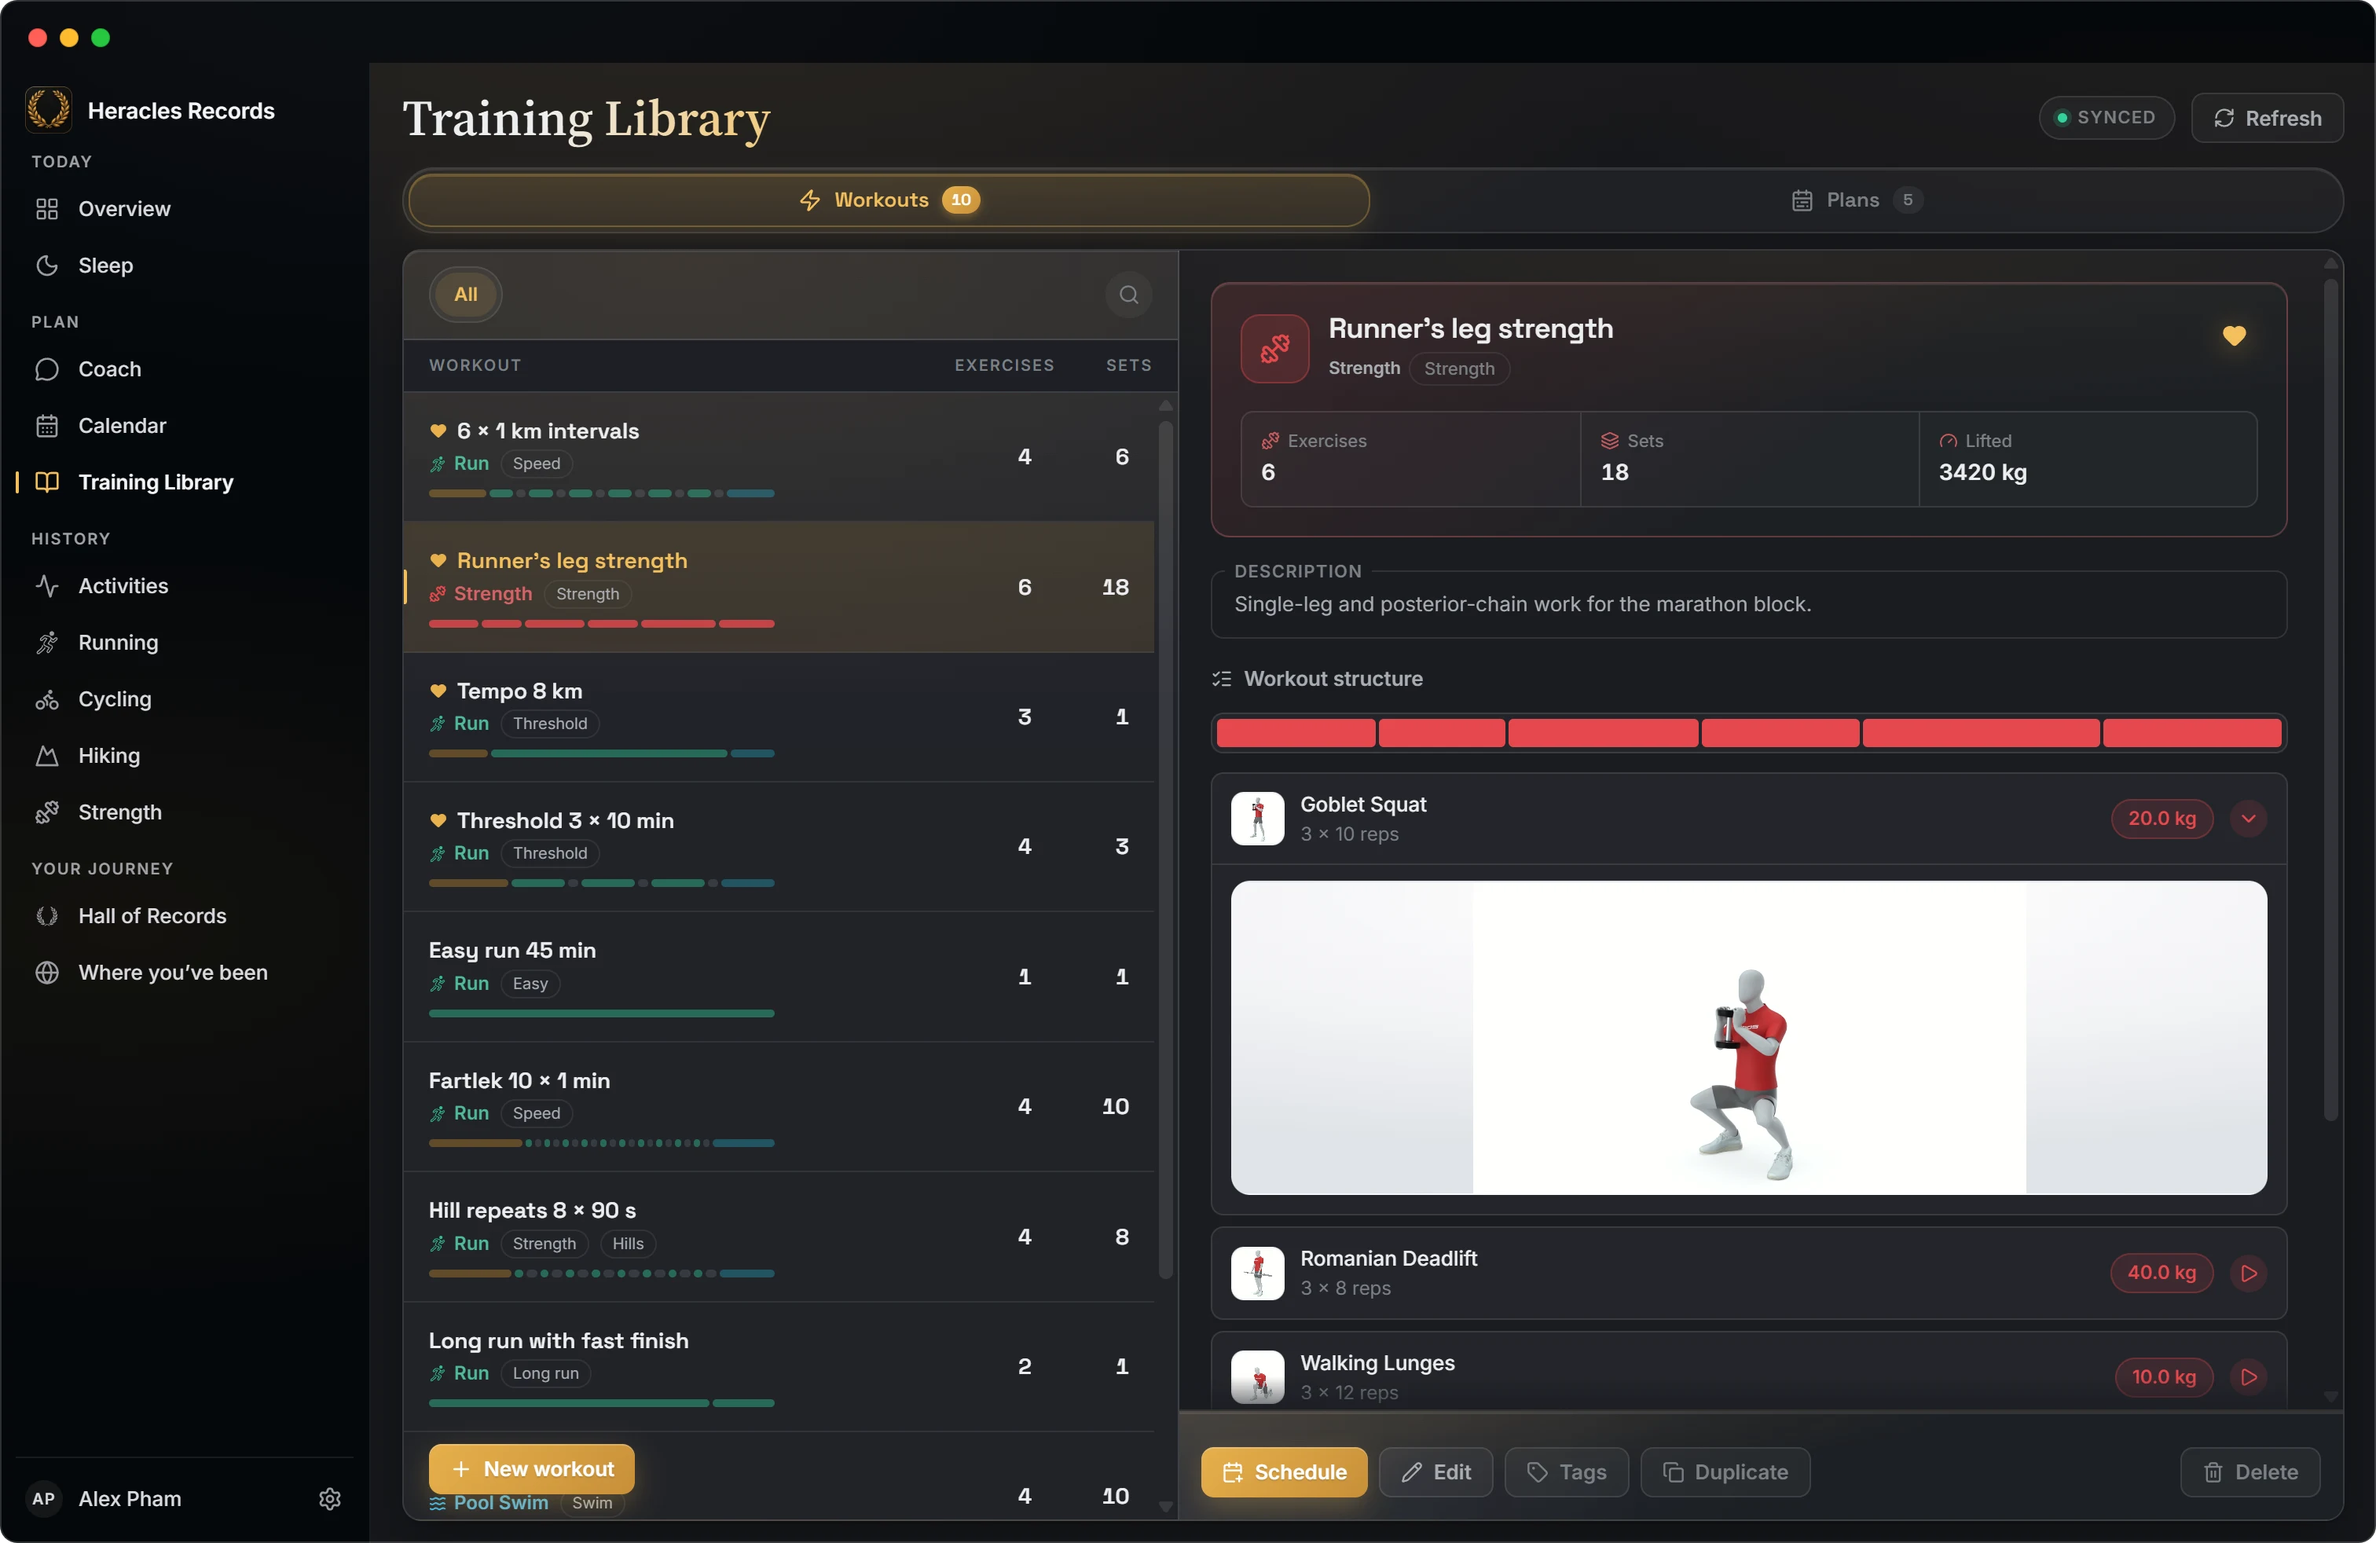
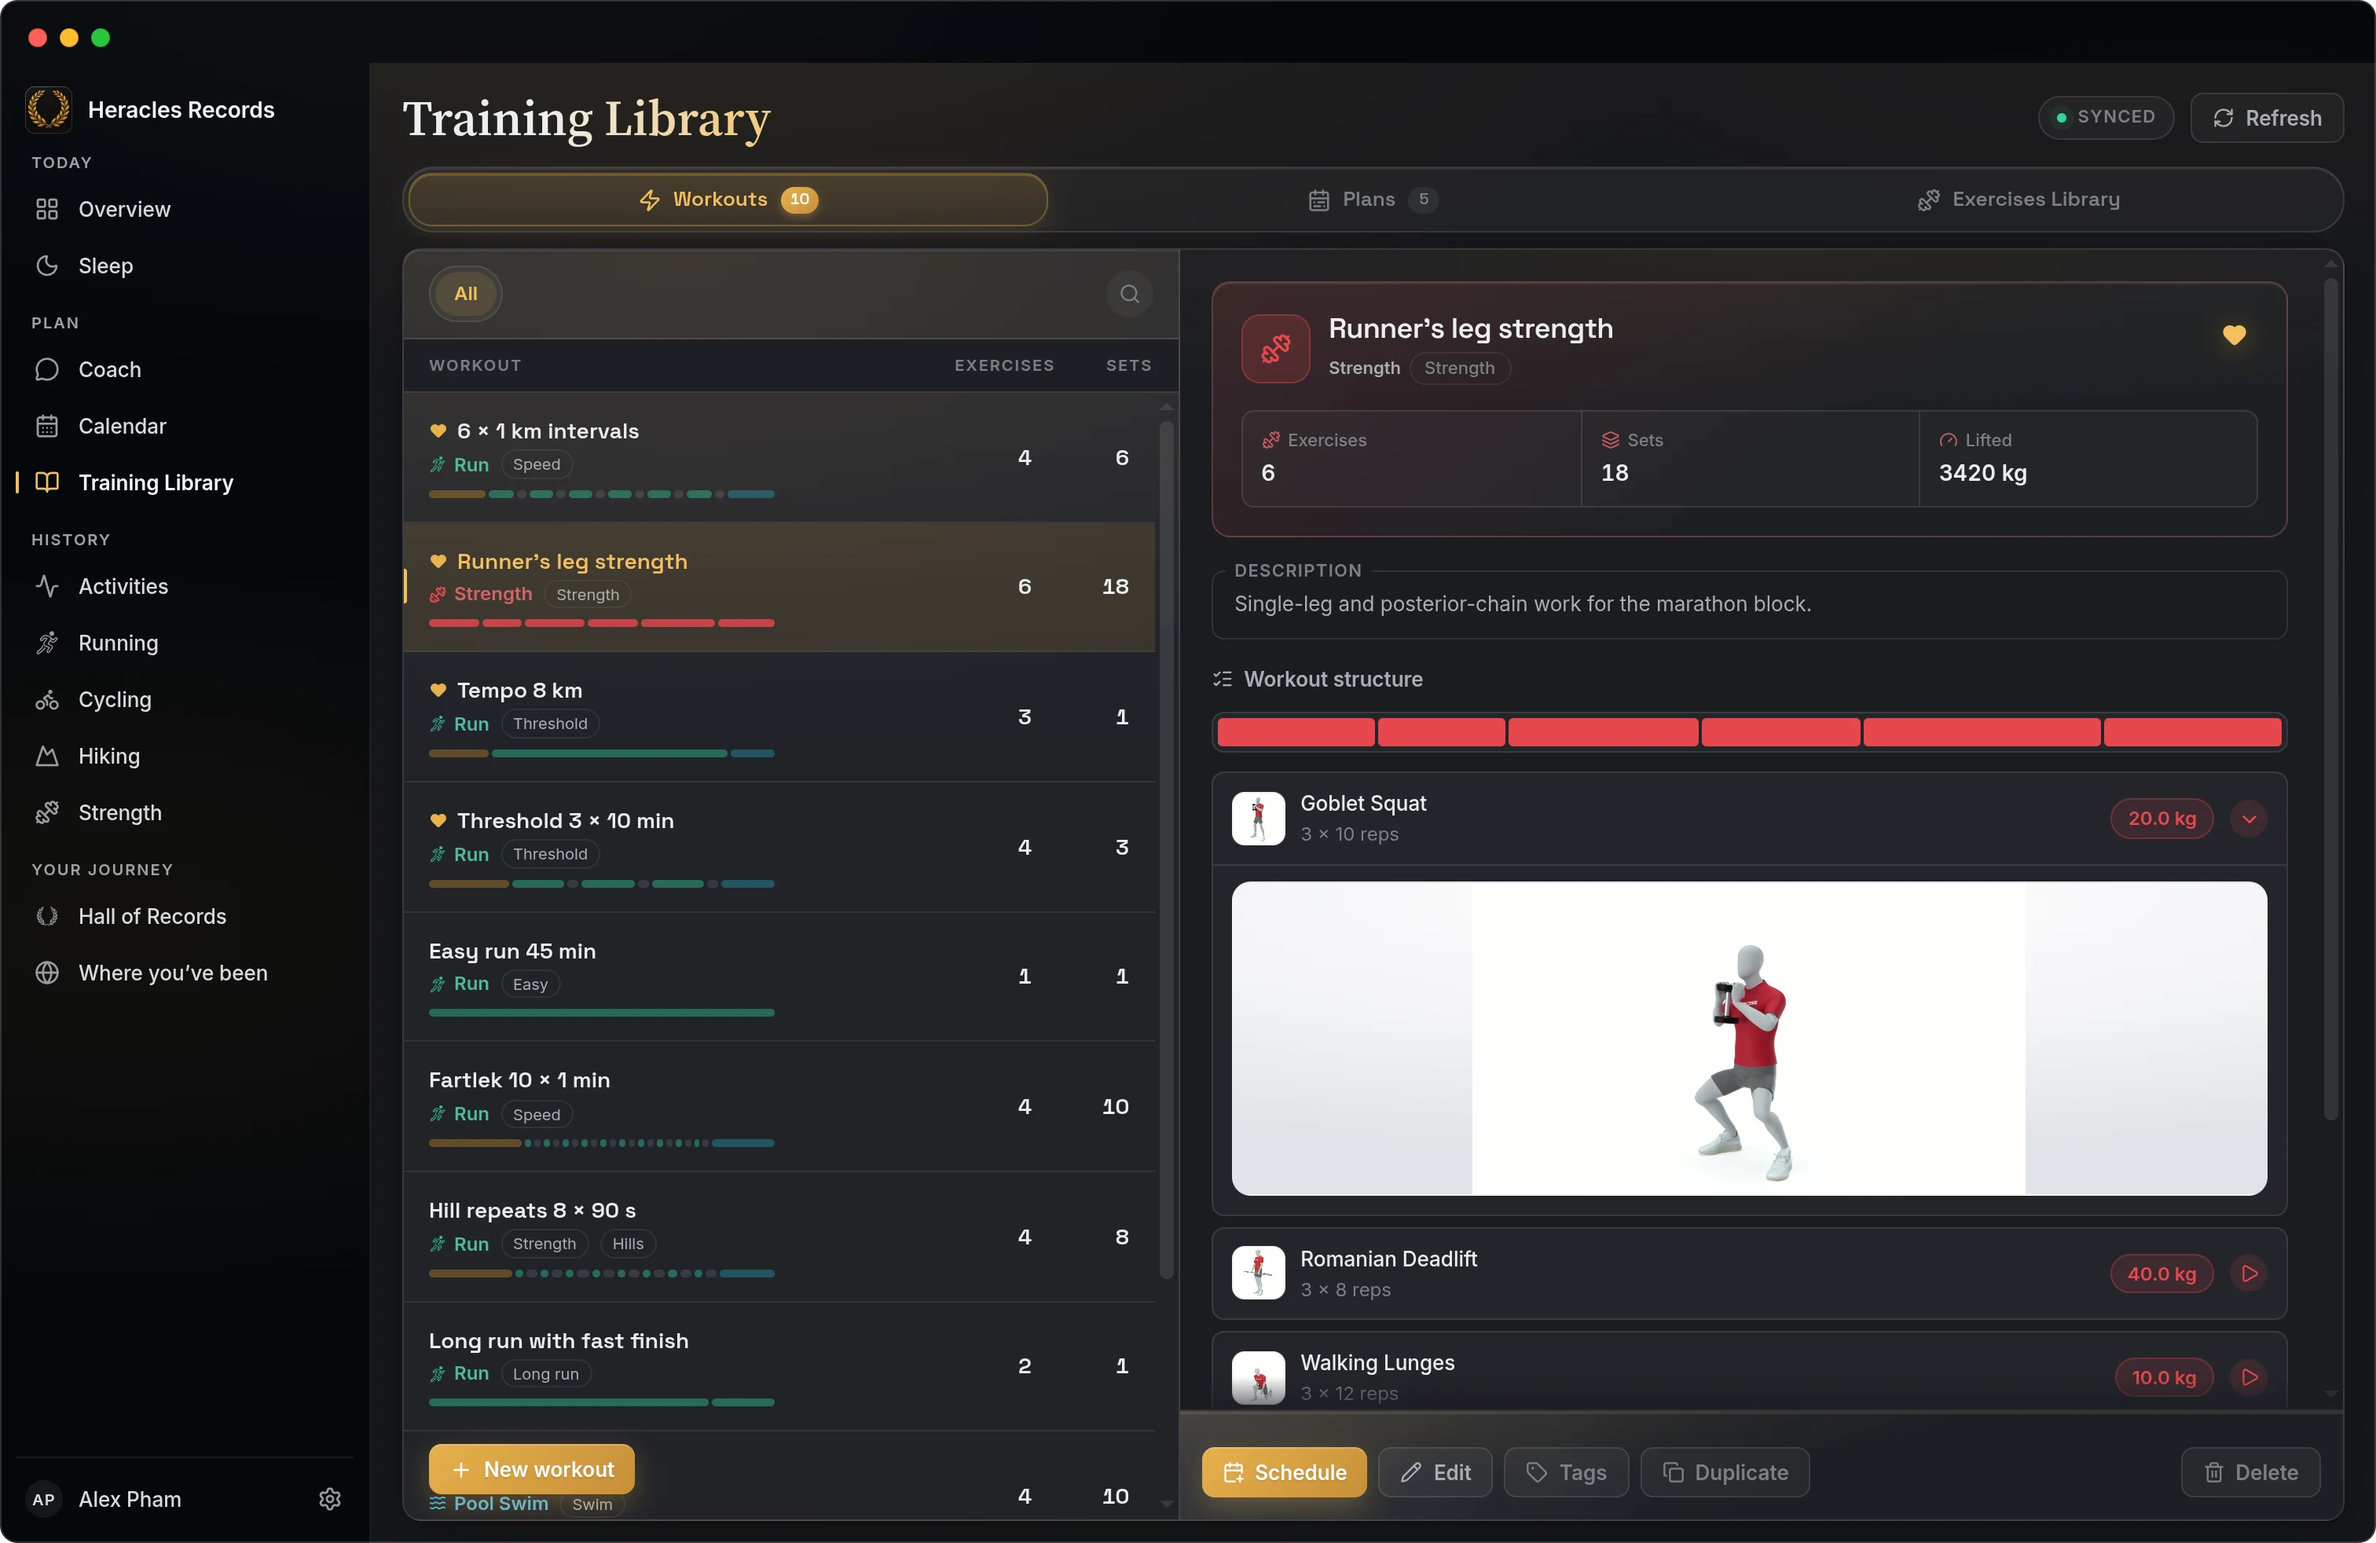
chore: release v1.2.2

diff --git a/README.md b/README.md
@@ -130,6 +130,8 @@ Nights and naps, stages, HRV and stress across the night, kept long after the ni
   </tr>
 </table>
 
+**Strength, described properly.** COROS's exercise data is often wrong: a squat filed as hamstring work, battle ropes as biceps, every twist and side plank with no obliques. That skewed my training totals and gave Coach a muddled picture to analyse. So Heracles Records describes every movement again, its muscles and equipment one by one (browse them in the Training Library's **Exercises Library**), and you may see it disagree with COROS here and there. That is on purpose. If you think the app got one wrong, please say so in [Discussions](https://github.com/quochungse/HeraclesRecords/discussions) or [Issues](https://github.com/quochungse/HeraclesRecords/issues/new).
+
 **Every route, replayed.** Open the map full size and colour the line by pace, heart rate or elevation, then watch the route draw itself the way you covered it.
 
 <img src="docs/readme/16-route.webp" alt="A hike around Hàm Lợn replayed on a satellite map, coloured by elevation" />
@@ -205,11 +207,11 @@ Every place your training has taken you, on a globe beside a list of places. Ope
 - Your training comes from your COROS account and stays on your computer.
 - Back up everything to one file you keep, and restore it whenever you like.
 
-## From CorosLink to Heracles Records
+## The story behind Heracles Records
 
 Heracles Records began as a fork of CorosLink, a desktop companion for COROS watches. As my own training grew, what I wanted from it changed: a full record of everything I had done, analytics deeper than a summary screen, and an AI coach that reads all of it. A complete training system rather than a set of tools. So I rebuilt the app around that: training records, deep analytics and AI.
 
-I also want it to be an app you enjoy opening every day: clear screens, charts that are easy to read, and as few clicks as possible between a question about your training and what to do next.
+And I want it to be a pleasure to open every day: calm screens, charts you read at a glance, and a short path from wondering how your training is going to knowing what to do next.
 
 If you are looking for music and media on your watch, offline maps and routes, watch faces or gear tracking, **CorosLink** does those well and is the app to use. They are not part of Heracles Records.
 

diff --git a/CHANGELOG.md b/CHANGELOG.md
@@ -7,6 +7,21 @@ and this project adheres to [Semantic Versioning](https://semver.org/spec/v2.0.0
 
 ## [Unreleased]
 
+## [1.2.2] - 2026-10-22
+
+### What's new
+- **Exercises Library** - a third tab in the Training Library: COROS's whole movement catalogue to read. Pick a body part on the figure, then a muscle inside it, or an equipment; each movement shows its clip, the muscles it works and how hard. HYROX's eight stations are one toggle away, in race order, and a heart keeps your favourites.
+- **Exercises described properly** - COROS files a squat as hamstring work, battle ropes as biceps and every twist and side plank with no obliques. The app now describes each movement again, its muscles and equipment one by one, so your strength totals and Coach read the right muscles. It may disagree with COROS here and there, on purpose; if you think it got one wrong, say so in Discussions or Issues.
+- **Abductors** - a muscle of their own, on the body filter and on the Strength screen's 3D figure, no longer counted with the glutes.
+- **Exercise picker** - the heart narrows the search to your favourite movements.
+- **Plan in progress** - a tile among your plans rather than a banner over them, filled as far as the plan has got, with the next session beside it. "Done" counts the sessions trained out of those the plan put on the calendar.
+- **Plan usage** - for Claude and ChatGPT subscriptions, "AI for this conversation" shows how much of your plan's limits is spent.
+- **Coach cards open what they name** - a proposed change opens the session it acts on and what it would write, a session on a plan card opens it in the Workbench, and a question's chips open what they point at.
+
+### Fixed
+- Applying or dismissing a proposed change updates the conversation's "to decide" count straight away.
+- Improve app performance and stability.
+
 ## [1.2.1] - 2026-10-21
 
 The biggest Coach update since 1.0. A conversation is now something you work in rather than scroll through: take a question back, rewrite it, keep a turn out of Coach's reading or branch off to try another idea, and every session Coach shows you reads the way its own page does. Fewer clicks between asking, reading and deciding.

diff --git a/docs/website-plan.md b/docs/website-plan.md
@@ -117,7 +117,7 @@ Giọng văn: theo README hiện tại. Tiếng Anh, câu ngắn, cụ thể, **
 | `/changelog/` (+ `/changelog.xml`) | Sinh từ CHANGELOG.md, một trang với neo `#1.0.0` cho mỗi bản, kèm feed RSS. Bỏ trang riêng cho từng bản: GitHub Pages không chắc phục vụ đường dẫn có dấu chấm như `/changelog/1.0.0` |
 | `/guide/*` | Getting started, Connect COROS (vùng, 2FA), Set up Coach (từng provider), Sync qua Google Drive, Backup & restore, Hevy, Troubleshooting, FAQ |
 | `/privacy.html` | Giữ URL; rà lại danh sách dịch vụ (Hevy, OpenRouter, Nominatim/Photon, OpenFreeMap, CDN locale của COROS) |
-| `/about` | Câu chuyện "From CorosLink to Heracles Records", vì sao tên Heracles, Buy me a coffee |
+| `/about` | Câu chuyện "The story behind Heracles Records", vì sao tên Heracles, Buy me a coffee |
 | `/404` | |
 
 ### Trang chủ, từ trên xuống
